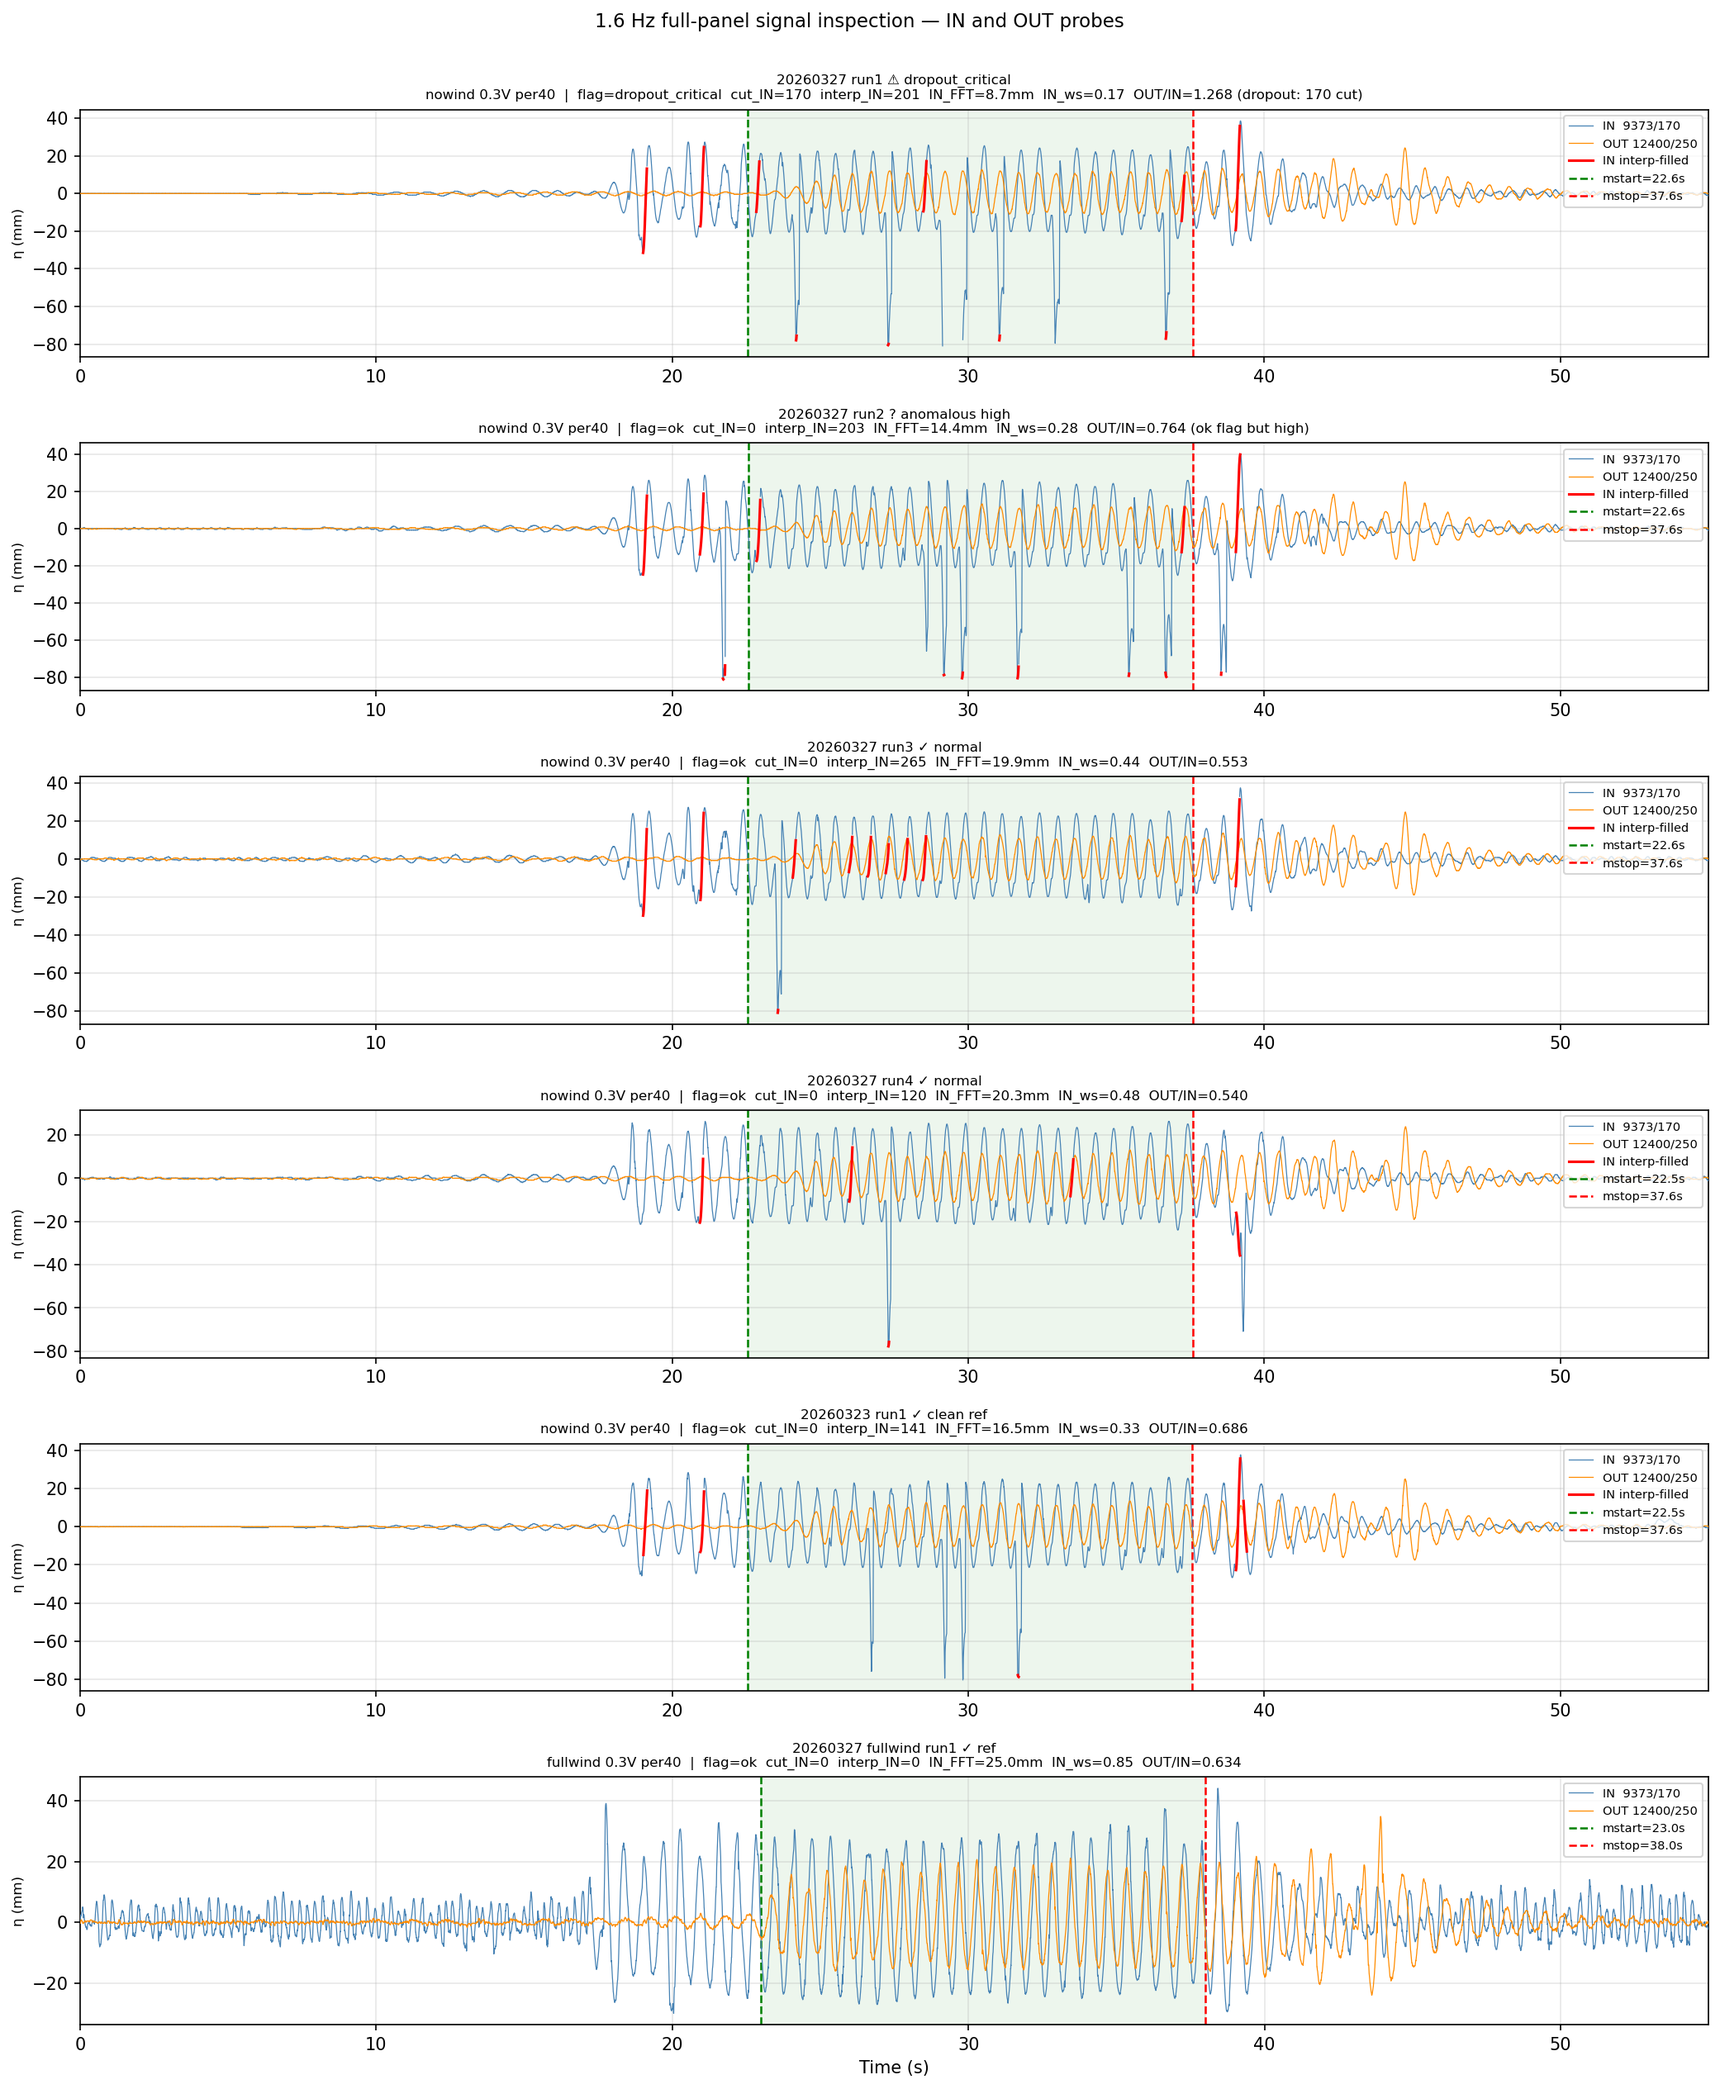
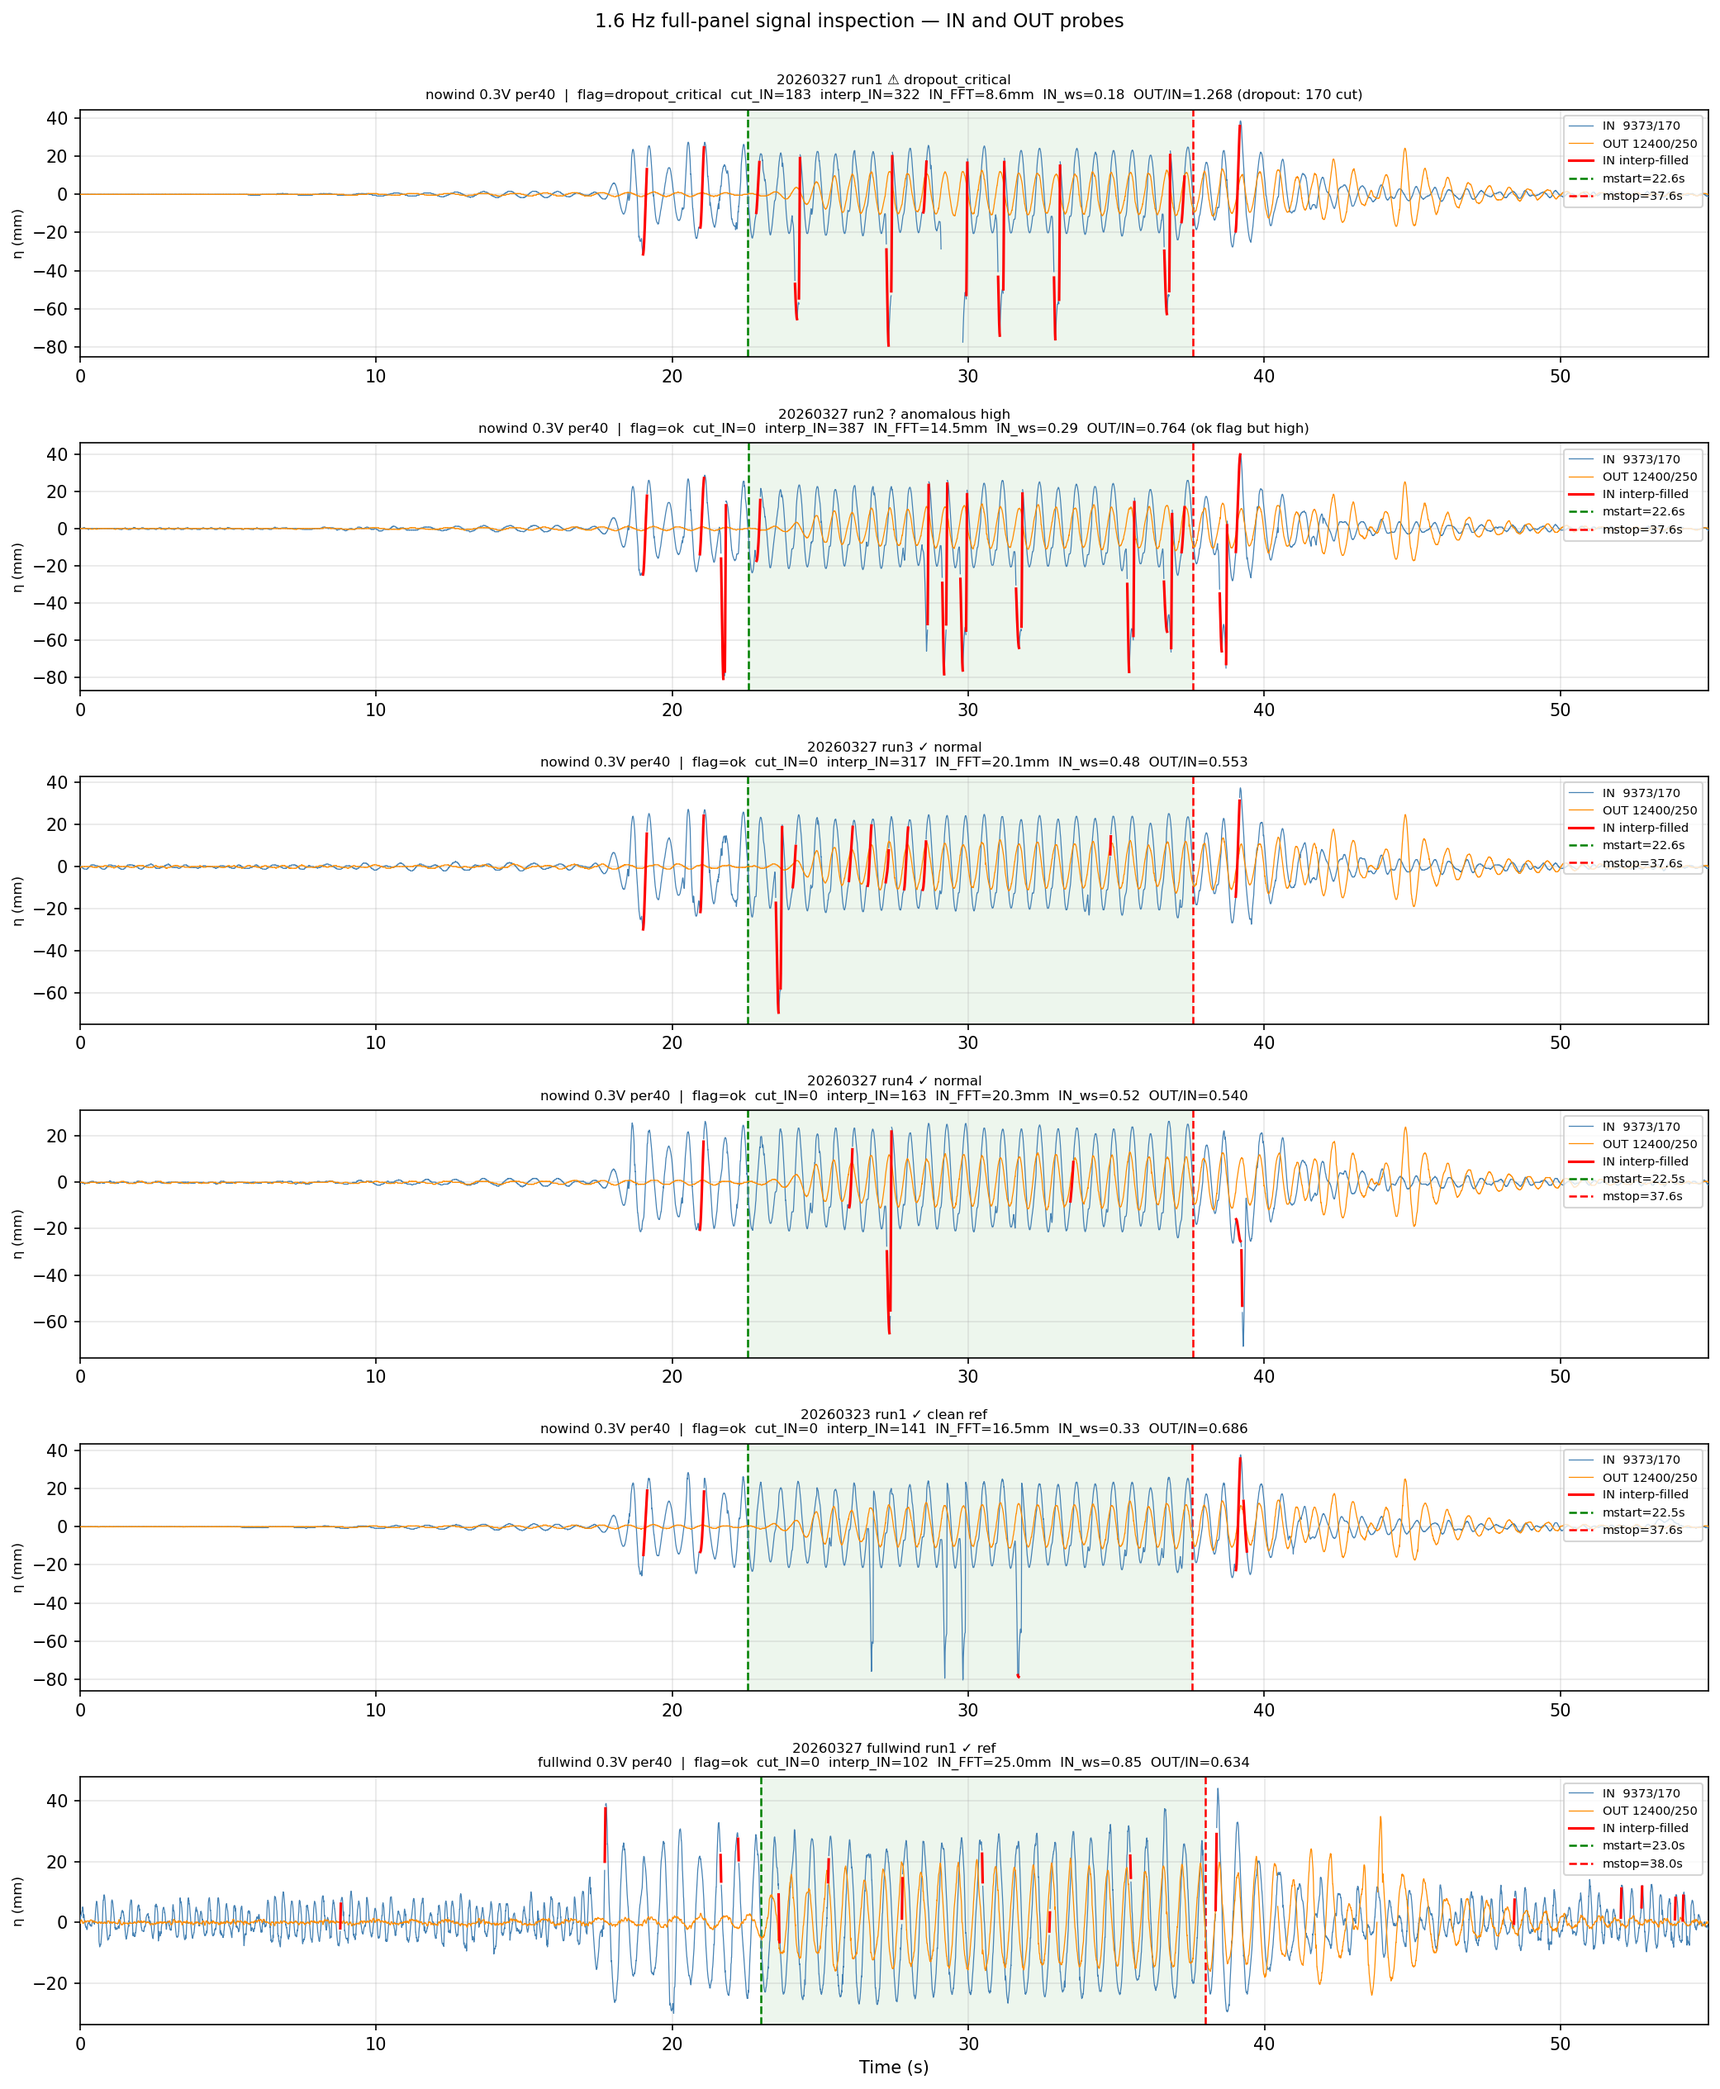
Summary of changes
**`wavescripts/processor.py`** — two changes:

1. **`run_find_wave_ranges`**: wave_stability (and other per-cycle
   metrics) now computed from `eta_{pos}_interp` (PCHIP-filled signal)
   instead of the raw `Probe {pos}` signal. Previously, any NaN samples
   in the raw signal caused `np.fft.rfft` to return NaN, propagating
   through the autocorrelation and making `wave_stability=nan` for any
   run with probe-fault gaps. Residual NaN (uninterpolable cut-samples)
   are replaced with 0 before the FFT.

2. **`_write_quality_flags`**: new `in_probe_low_snr` check — if
   `WindCondition == "no"` and `Probe {in_pos} wave_stability < 0.35`,
   the run is flagged. Only applies to no-wind runs (full-wind has
   naturally lower autocorrelation from surface roughness). Threshold
   gap: run2 at 0.266, next clean run at 0.703.

**`wavescripts/improved_data_loader.py`**: added `"in_probe_low_snr"` to
the `quality_flag` comment in `NON_FLOAT_COLUMNS`.

diff --git a/wavescripts/processor.py b/wavescripts/processor.py
@@ -933,10 +933,21 @@ def run_find_wave_ranges(
             ):
                 upcrossings = debug_info.get("wave_upcrossings")
                 samples_per_period = int(round(MEASUREMENT.SAMPLING_RATE / freq))
-                sig = df[probe_col].values[start:end]
+
+                # Use PCHIP-interpolated signal for wave quality metrics so that NaN
+                # gaps (from spike/drift filter) do not propagate into the FFT and
+                # produce spurious NaN wave_stability values.
+                interp_col = f"eta_{pos}_interp"
+                sig_col = interp_col if interp_col in df.columns else probe_col
+                sig = df[sig_col].values[start:end]
 
                 # 1. wave_stability: autocorrelation at lag = 1 period (FFT-based, O(n log n))
-                sig_centered = sig - np.mean(sig)
+                # Use nanmean so any residual NaN (e.g. cut samples beyond max_interp_gap)
+                # do not corrupt the autocorrelation.
+                sig_mean = np.nanmean(sig)
+                sig_centered = sig - sig_mean
+                # Replace residual NaN (uninterpolated gaps) with 0 (neutral for autocorr)
+                sig_centered = np.where(np.isnan(sig_centered), 0.0, sig_centered)
                 n = len(sig_centered)
                 if n > 2 * samples_per_period:
                     fft_sig = np.fft.rfft(sig_centered, n=2 * n)
@@ -1278,6 +1289,34 @@ def _write_quality_flags(
                         line = (
                             f"dropout_critical | {fname} | probe {critical_pos} "
                             f"cut_frac={cut_frac:.1%} ({int(cut_n)} total NaN / {window_size} window)"
+                        )
+                        print(f"  ⚠ QUALITY FLAG: {line}")
+                        flagged_lines.append(line)
+
+        # Wave-stability check — low IN probe autocorrelation on no-wind wave runs.
+        # A run whose IN signal is heavily interpolated (PCHIP-filled probe-fault troughs)
+        # may escape the dropout check (all NaN gaps < max_interp_gap), yet the PCHIP
+        # curve is flatter than the true sine wave — FFT amplitude is suppressed.
+        # wave_stability = autocorrelation at lag 1 period: 1.0 = perfect sine, <0.35 = degraded.
+        # Threshold 0.35 chosen to cleanly separate:
+        #   clean runs: 0.48–0.52 (e.g. run3, run4 at 1.6 Hz)
+        #   degraded:   0.29 (run2 at 1.6 Hz with many PCHIP-filled troughs)
+        # Only applies to no-wind wave runs — full-wind raises natural variability so a
+        # lower threshold would produce false positives.
+        _WAVE_STABILITY_THRESHOLD = 0.35
+        if idx_list and has_window:
+            idx = idx_list[0]
+            wind_cond = meta_sel.at[idx, "WindCondition"] if "WindCondition" in meta_sel.columns else None
+            ws_col = f"Probe {in_pos} wave_stability"
+            if wind_cond == "no" and ws_col in meta_sel.columns:
+                ws_val = meta_sel.at[idx, ws_col]
+                if not pd.isna(ws_val) and float(ws_val) < _WAVE_STABILITY_THRESHOLD:
+                    existing = meta_sel.at[idx, "quality_flag"]
+                    if existing == "ok":
+                        meta_sel.at[idx, "quality_flag"] = "in_probe_low_snr"
+                        line = (
+                            f"in_probe_low_snr | {fname} | "
+                            f"IN probe {in_pos} wave_stability={ws_val:.3f} < {_WAVE_STABILITY_THRESHOLD}"
                         )
                         print(f"  ⚠ QUALITY FLAG: {line}")
                         flagged_lines.append(line)

diff --git a/wavescripts/improved_data_loader.py b/wavescripts/improved_data_loader.py
@@ -44,7 +44,7 @@ NON_FLOAT_COLUMNS = {
     "run_category": str,        # "standard" | "nowave_control" | "diagnostic" | "wind_decay" | "partial" | "experimental"
     "prev_run_category": str,   # run_category of the preceding run in the same folder ("" = first run)
     "prev_run_wind": str,       # WindCondition of the preceding run ("" = first run)
-    "quality_flag": str,        # "ok" | "probe_malfunction_secondary" | "probe_malfunction_critical" | "dropout_critical"
+    "quality_flag": str,        # "ok" | "probe_malfunction_secondary" | "probe_malfunction_critical" | "dropout_critical" | "in_probe_low_snr"
 }
 
 # ── Run category classification ───────────────────────────────────────────────
